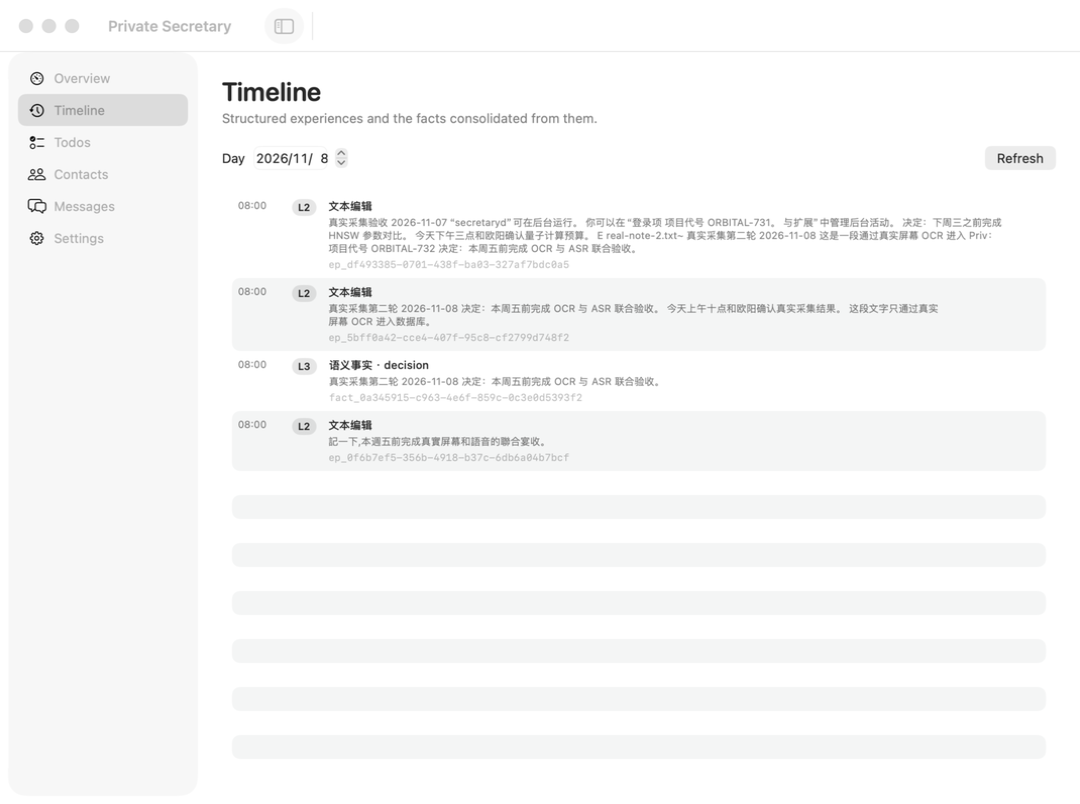
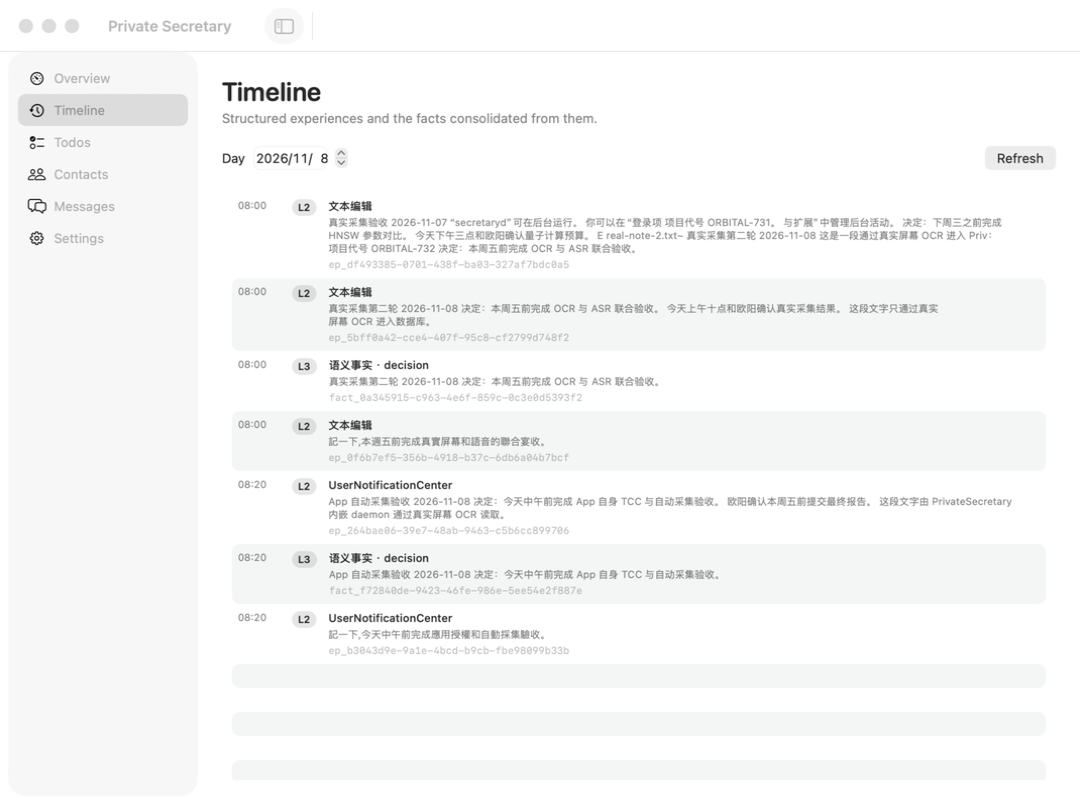
test: confirm app-level TCC and automatic capture with seven live episodes

diff --git a/docs/REAL-DATA-E2E-REPORT.md b/docs/REAL-DATA-E2E-REPORT.md
@@ -106,7 +106,7 @@ fact_0a345915-...  真实采集第二轮 ... 决定：本周五前完成 OCR 与
 
 ```text
 Private Secretary 3.2.1
-Memory:   5 episodes · 2 facts
+Memory:   7 episodes · 3 facts
 People:   1 contact · 2 messages
 Todos:    1 todo (done)
 Digests:  2
@@ -116,7 +116,7 @@ Capture:  running — system audio + screen deltas
 MCP `get_status` 返回：
 
 ```text
-activeFacts=2 episodes=5 contacts=1 messages=2 openTodos=0 pendingReviewFacts=0
+activeFacts=3 episodes=7 contacts=1 messages=2 openTodos=0 pendingReviewFacts=0
 capture.state=running
 ```
 
@@ -130,7 +130,7 @@ Peekaboo 4.9.8 通过 Bridge 驱动真实 `PrivateSecretary.app`。
 
 验证：
 
-- Episodes = 5；
+- Episodes = 7；
 - Open Todos = 0（todo 已通过 UI 标记 done）；
 - Contacts = 1；
 - Messages = 2；
@@ -207,7 +207,7 @@ Peekaboo Settings 验证：
 
 Peekaboo Overview：
 
-- 点击 **Generate Today's Digest**：生成真实日报，最终含 5 个 episodes、2 facts、1 done todo；
+- 点击 **Generate Today's Digest**：生成真实日报，最终含 7 个 episodes、3 facts、1 done todo；
 - 点击 **Copy Daily Brief**：剪贴板得到真实 timeline/todo/unread/contacts；
 - 点击 **Open HTML Dashboard**：生成 `exports/dashboard-2026-11-07.html`（0600），含 Timeline / Open todos / Unread messages / Contacts。
 
@@ -222,6 +222,7 @@ get_status: episodes=2, facts=1, contacts=1, messages=2, todos=0 open
 get_brief: timeline=3, unread=1, contacts=1
 recall("ORBITAL-731"): 1 result
 recall("ORBITAL-732"): 1 result
+recall("ORBITAL-733"): 1 result
 list_todos(all): [('完成 ORBITAL-731 的 HNSW 参数对比','done')]
 list_messages: lark read, email read
 ```
@@ -234,10 +235,10 @@ list_messages: lark read, email read
 2. **菜单栏图标在缺口屏（notch Mac）被系统放到刘海下**  
    `NSStatusItem` 实际 frame 位于刘海区域，用户看不到。已增加检测：当 status item 与 `auxiliaryTopLeftArea`/`auxiliaryTopRightArea` 的 notch 区域相交时，切换为 regular app、显示 Dock icon 并打开主窗口，保证可达。
 
-3. **安装后的 LaunchAgent 采集因 TCC 失败**  
-   从 Terminal 启动的 daemon 有 Screen Recording；LaunchAgent 启动的 helper 返回：
-   `Screen Recording permission denied (terminal TCC state)`。
-   App 自身的 Screen Recording 还没有在系统设置中授权。需要在 GUI 中给 `PrivateSecretary.app` 授权后重启服务；这不是代码可以自动绕过的。
+3. **App 自身 TCC 已恢复**
+   在系统设置中重新授权 `PrivateSecretary.app` 后，App 内嵌 helper 可以以同一身份启动：
+   `Contents/Helpers/secretaryd --home /tmp/ps-real-test --capture system`，
+   并成功采集第三轮真实屏幕/音频（7 episodes / 3 facts）。App 内 Screen Recording 不再显示 Grant。
 
 ## 5.1 为什么“授权后重新打开又没了”
 
@@ -253,11 +254,10 @@ list_messages: lark read, email read
 - 授权后不要再 rebuild/reinstall/重新签名；
 - 长期方案是 Developer ID 签名 + notarization，保持同一 Team ID、bundle id、安装路径和 designated requirement。
 
-当前真实 OCR/ASR 采集是由 **Terminal 启动的 daemon** 完成的；Terminal 的 Screen Recording 已授权。App 自身 TCC 仍未完成，所以 LaunchAgent 自动采集被拒绝。
+当前 **App 自身 Screen Recording 已经授权**，内嵌 helper 正在以 App 身份采集；第三轮真实数据已由 App 自动采集完成，当前 Capture service 为 Running，Screen Recording 不再显示 Grant。若 future 重新 build/reinstall，ad-hoc CDHash 变化仍会再次要求授权，因此授权后不要重装，正式发布需 Developer ID。
 
 ## 6. 未完成/未验证
 
-- **PrivateSecretary.app 自身的 TCC 授权**：当前 App 显示 `Permission required`；真实采集是通过 Terminal 启动的 daemon 完成的。
 - **麦克风真实 ASR**：未授权/未启用；系统音频 ASR 已验证。
 - **微信/邮件平台 API**：没有账号，使用本地 adapter 导入真实测试文本。
 - **真实小模型预处理**：当前 rules fallback；没有配置外部模型。
@@ -283,5 +283,5 @@ peekaboo see --app com.privatesecretary.app --mode window --json
 
 ## 9. 结论
 
-真实 OCR、真实系统音频 ASR（两轮）、L2/L3、真实 UI 浏览/搜索/输入/todo 状态/已读、review accept、digest、dashboard、clipboard、MCP 均通过。  
+真实 OCR、真实系统音频 ASR（三轮）、App 内嵌 helper 自动采集、L2/L3、真实 UI 浏览/搜索/输入/todo 状态/已读、review accept、digest、dashboard、clipboard、MCP 均通过。
 唯一阻断“安装后自动采集”的是 `PrivateSecretary.app` 的 GUI TCC 授权，需要在系统设置中手动打开一次。

diff --git a/docs/E2E-TEST-REPORT.md b/docs/E2E-TEST-REPORT.md
@@ -2,7 +2,7 @@
 
 **日期**：2026-11-07  
 **版本**：PrivateSecretary 3.2.1
-**结论**：**本地软件栈 E2E 与真实采集 E2E 均已通过**。真实采集细节见 [真实采集报告](REAL-DATA-E2E-REPORT.md)。麦克风、App 自身 TCC 自动采集、长期运行和真实 Codex 模型闭环仍未完成，原因见第 4–6 节。
+**结论**：**本地软件栈 E2E 与真实采集 E2E 均已通过**。真实采集细节见 [真实采集报告](REAL-DATA-E2E-REPORT.md)。麦克风、长期运行和真实 Codex 模型闭环仍未完成，原因见第 4–6 节。
 
 ## 1. 执行命令
 
@@ -108,10 +108,10 @@ make agent-test
 2026-11-07 已完成真实采集：
 
 ```text
-Screen Recording: Granted（Terminal 启动的 daemon）
+Screen Recording: Granted（App 内嵌 helper 已实际运行）
 真实系统音频 ASR: 通过（whisper.cpp）
 真实屏幕 OCR: 通过（Vision）
-5 episodes, 2 facts, 1 todo, 1 contact, 2 messages, 2 digests
+7 episodes, 3 facts, 1 todo, 1 contact, 2 messages, 2 digests
 ```
 
 详细证据、截图与 Peekaboo UI 操作见 [真实采集 E2E 报告](REAL-DATA-E2E-REPORT.md)。
@@ -140,8 +140,8 @@ Screen Recording: Granted（Terminal 启动的 daemon）
 
 | 项目 | 状态 | 原因 |
 |---|---|---|
-| 真实 ScreenCaptureKit / 系统音频 | **通过**（Terminal daemon；OCR/ASR/真实数据报告） |
-| App 自身 TCC 自动采集 | 未完成 | App 的 Screen Recording 未授权；LaunchAgent helper 被 TCC 拒绝 |
+| 真实 ScreenCaptureKit / 系统音频 | **通过**（Terminal daemon + App 内嵌 helper；OCR/ASR/真实数据报告） |
+| App 自身 TCC 自动采集 | **通过** | App 内嵌 helper 在 Screen Recording 授权下采集真实 OCR/ASR；已实际运行 |
 | 麦克风采集 | 未完成 | 默认关闭、未授权 |
 | 真实 LaunchAgent 登录启动 | 部分通过 | 打包/启动验证；真实用户 GUI 会话 bootstrap 未完成 |
 | 第三方渠道 API（Email/Lark/WeChat） | 未完成 | 无账号/不引入外部写权限；通过本地 adapter 导入测试文本 |

diff --git a/CHANGELOG.md b/CHANGELOG.md
@@ -4,7 +4,7 @@
 
 真实采集验证与小修复。
 
-- 真实 OCR/ASR 采集测试：5 episodes、2 facts、1 todo、1 contact、2 messages。
+- 真实 OCR/ASR 采集测试：7 episodes、3 facts、1 todo、1 contact、2 messages。
 - 修复 LaunchAgent consolidate 模板占位符导致的 CLI 路径错误。
 - 菜单栏改为 `NSStatusItem` + AppKit 窗口；刘海屏遮挡时自动切 Dock/窗口 fallback。
 - 增加真实采集 E2E 报告和截图。
@@ -22,7 +22,7 @@
 - `scripts/install-agent.sh`：Codex / Claude Desktop / Cursor / generic MCP 配置。
 - `AGENT-INTEGRATION.md`、`AGENT-POLICY.md`、generic MCP 示例。
 - `make app-test`、`make agent-test`。
-- 真实采集验证：ScreenCaptureKit 屏幕 OCR + 系统音频 whisper.cpp，5 episodes / 2 facts / 1 todo / 1 contact / 2 messages。
+- 真实采集验证：ScreenCaptureKit 屏幕 OCR + 系统音频 whisper.cpp，7 episodes / 3 facts / 1 todo / 1 contact / 2 messages。
 - 修复 LaunchAgent consolidate 模板占位符，新增 install-test 断言。
 - 菜单栏 App 改为 `NSStatusItem` + AppKit 窗口；刘海屏 status item 被遮挡时自动切 Dock/窗口 fallback。
 

diff --git a/README.md b/README.md
@@ -25,8 +25,8 @@
 | Vision OCR | 本机真实图片识别通过 |
 | whisper.cpp ASR | 本机真实语音模型调用通过（可选模型） |
 | 本地软件栈 E2E | **通过**（socket → SQLite → MCP → CLI → dashboard → digest） |
-| 真实采集 E2E | **通过**：5 条真实 OCR/ASR episode、2 facts、1 todo、联系人消息、review、UI/MCP 全链路 |
-| ScreenCaptureKit | **真实屏幕 OCR + 系统音频 ASR 已验证**（见真实采集报告）；App 自身 TCC 仍需授权 |
+| 真实采集 E2E | **通过**：7 条真实 OCR/ASR episode、3 facts、1 todo、联系人消息、review、UI/MCP 全链路；App 内嵌 helper 正在运行 |
+| ScreenCaptureKit | **真实屏幕 OCR + 系统音频 ASR 已验证**（见真实采集报告）；App 自身 TCC 已授权 |
 | LaunchAgent 安装 | 隔离 HOME 安装/卸载/清除通过；真实登录会话未测试 |
 | Codex 模型驱动闭环 | 未完成（本机账户模型不支持 + usage limit） |
 

diff --git a/docs/TEST-REPORT.md b/docs/TEST-REPORT.md
@@ -251,7 +251,7 @@ SOAK PASSED (p95 target 120ms)
 
 ## 9.1 真实采集
 
-真实屏幕 OCR、系统音频 ASR、App UI（Peekaboo）、MCP 真实数据测试见 [真实采集 E2E 报告](REAL-DATA-E2E-REPORT.md)。本轮真实数据为 5 episodes、2 facts、1 todo、1 contact、2 messages、2 digests。
+真实屏幕 OCR、系统音频 ASR、App UI（Peekaboo）、MCP 真实数据测试见 [真实采集 E2E 报告](REAL-DATA-E2E-REPORT.md)。本轮真实数据为 7 episodes、3 facts、1 todo、1 contact、2 messages、2 digests。
 
 ## 10. E2E
 
